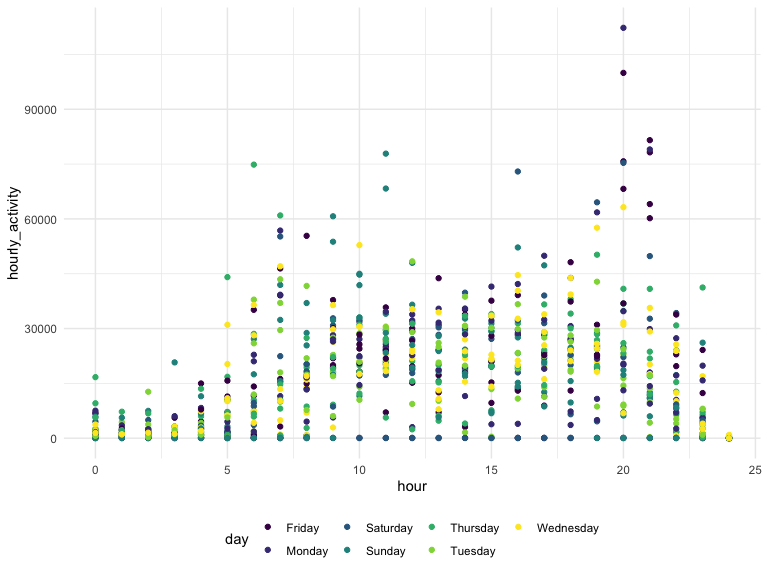
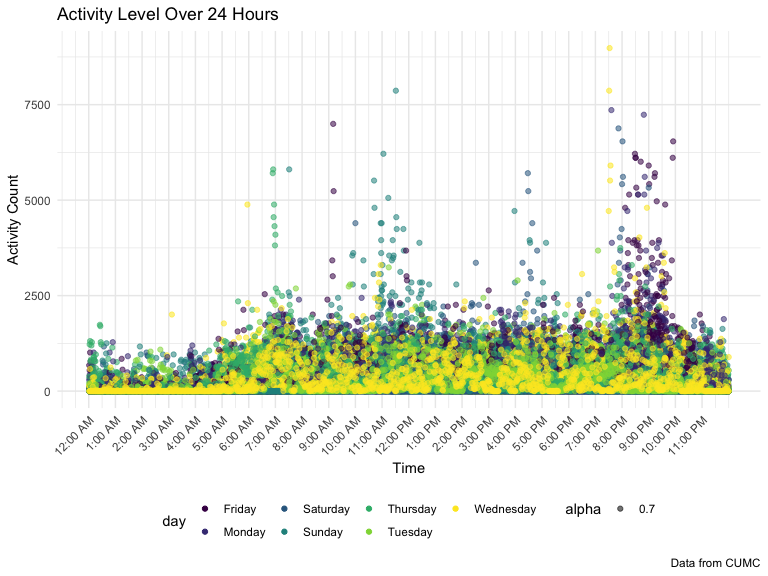
hourly activity plot

diff --git a/p8105_hw3_tal2145.md b/p8105_hw3_tal2145.md
@@ -3,20 +3,21 @@ p8105\_hw3\_tal2145
 Troy Layouni
 2019-10-08
 
-**Loading packages**
+**Loading
+    packages**
 
 ``` r
 library(tidyverse)
 ```
 
-    ## ── Attaching packages ─────────
+    ## ── Attaching packages ─────────────────────────── tidyverse 1.2.1 ──
 
     ## ✔ ggplot2 3.2.1     ✔ purrr   0.3.2
     ## ✔ tibble  2.1.3     ✔ dplyr   0.8.3
     ## ✔ tidyr   1.0.0     ✔ stringr 1.4.0
     ## ✔ readr   1.3.1     ✔ forcats 0.4.0
 
-    ## ── Conflicts ──────────────────
+    ## ── Conflicts ────────────────────────────── tidyverse_conflicts() ──
     ## ✖ dplyr::filter() masks stats::filter()
     ## ✖ dplyr::lag()    masks stats::lag()
 
@@ -403,14 +404,25 @@ per day, color coded by day of week
 
 ``` r
 accelerometer_data %>% 
-  mutate(hour = floor(minute/60)) %>% 
-  group_by(day, week, hour) %>% 
-  mutate(hourly_activity = sum(activity_count)) %>% 
-  distinct(day, week, hour, hourly_activity) %>% 
+  #mutate(hour = floor(minute/60)) %>% 
+  #group_by(day, week, hour) %>% 
+  #mutate(hourly_activity = sum(activity_count)) %>% 
+  #distinct(day, week, hour, hourly_activity) %>% 
   
   
-  ggplot(aes(x = hour, y = hourly_activity, color = day)) + 
-    geom_point()
+  ggplot(aes(x = minute, y = activity_count, color = day)) + 
+    geom_point(aes(alpha = .7)) +
+  scale_x_continuous(
+    breaks = c(0, 60, 120, 180, 240, 300, 360, 420, 480, 540, 600, 660, 720, 780, 840, 900, 960, 1020, 1080, 1140, 1200, 1260, 1320, 1380),
+    labels = c("12:00 AM", "1:00 AM", "2:00 AM", "3:00 AM", "4:00 AM", "5:00 AM", "6:00 AM", "7:00 AM", "8:00 AM", "9:00 AM", "10:00 AM", "11:00 AM", "12:00 PM", "1:00 PM", "2:00 PM", "3:00 PM", "4:00 PM", "5:00 PM", "6:00 PM", "7:00 PM", "8:00 PM", "9:00 PM", "10:00 PM", "11:00 PM")
+  ) +
+    theme(axis.text.x = element_text(angle = 45, vjust = 1, hjust = 1)) +
+  labs(
+   title = "Activity Level Over 24 Hours",
+   x = "Time",
+   y = "Activity Count",
+   caption = "Data from CUMC"
+  ) 
 ```
 
 <img src="p8105_hw3_tal2145_files/figure-gfm/unnamed-chunk-15-1.png" width="90%" />
